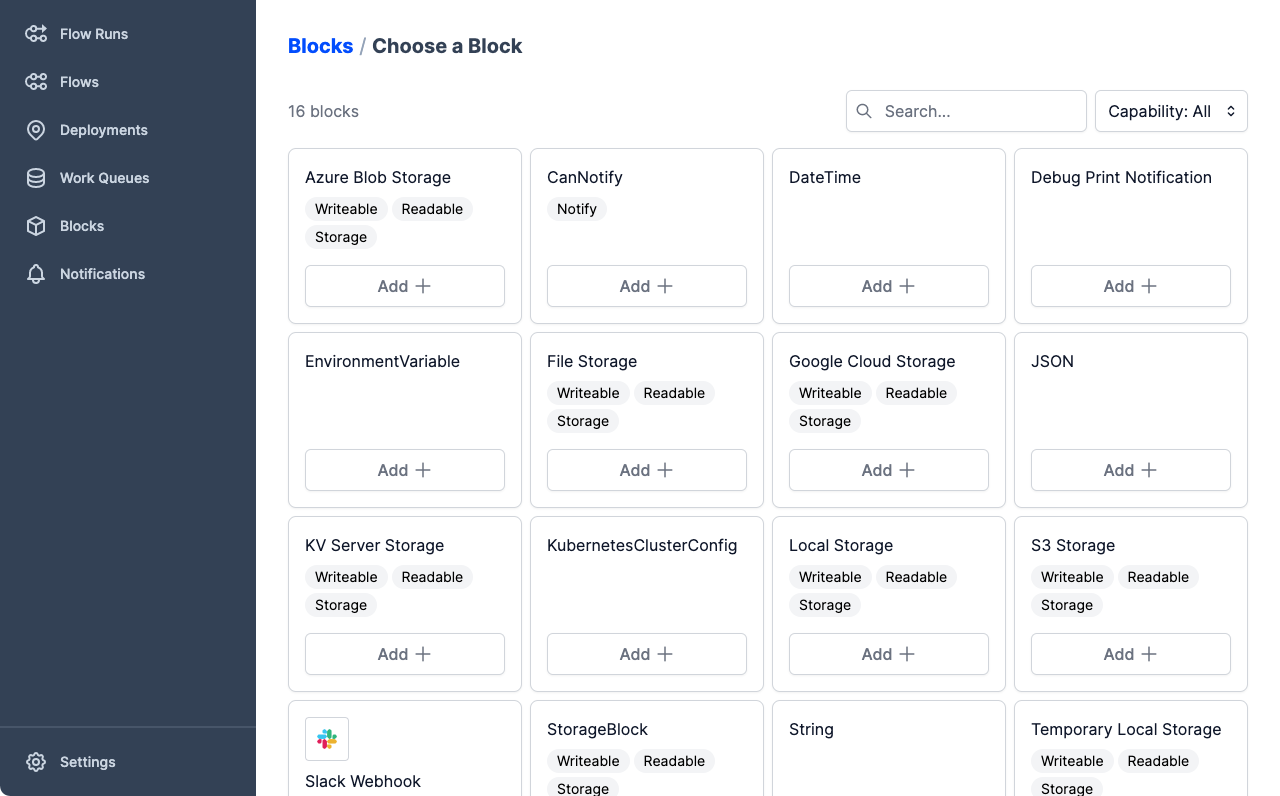
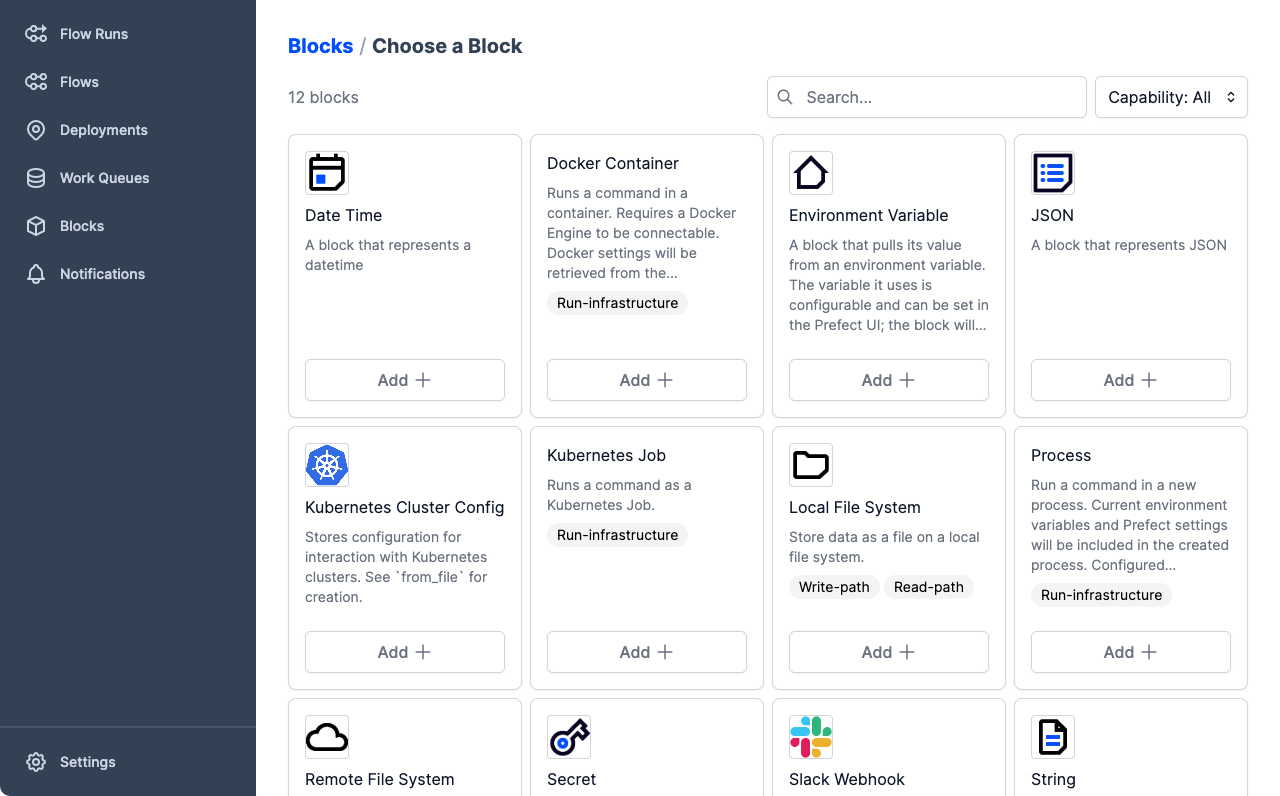
Update blocks ui screens and docs

diff --git a/docs/ui/blocks.md b/docs/ui/blocks.md
@@ -20,14 +20,14 @@ Select the **Blocks** page to see all blocks currently defined on your Prefect O
 
 ![Viewing configured blocks in the Prefect UI](/img/ui/orion-blocks.png)
 
-You can get the ID for any storage block, edit the block, or delete the block by selecting the command button to the right of the block.
+You can get the ID for any storage block, edit the block, or delete the block by selecting the button to the right of the block.
 
 To create a new block, select the **+** button. Prefect displays a library of block types you can configure to create blocks to be used by your flows.
 
 ![Viewing the new block library in the Prefect UI](/img/ui/orion-block-library.png)
 
-Select the block type, then provide the information needed to make the block functional. For example, here we're configuring an Azure Blob Storage block.
+Select the block type, then provide the information needed to make the block functional. For example, here we're configuring a Slack Webhook block.
 
-![Configuring an Azure Blob Storage block in the Prefect UI](/img/ui/orion-blocks-azure.png)
+![Configuring a Slack Webhook block in the Prefect UI](/img/ui/orion-blocks-slack.png)
 
 The [Blocks](/concepts/blocks/) documentation provides further detail on using blocks in your Prefect flows.